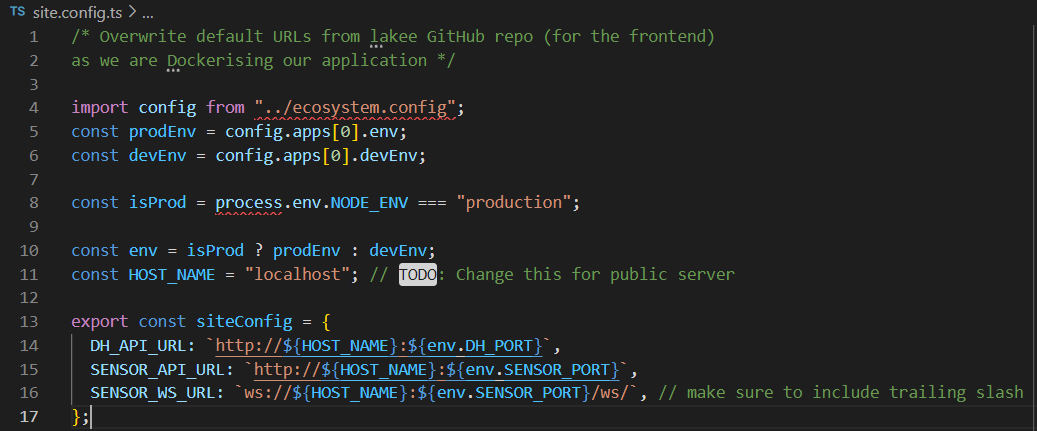
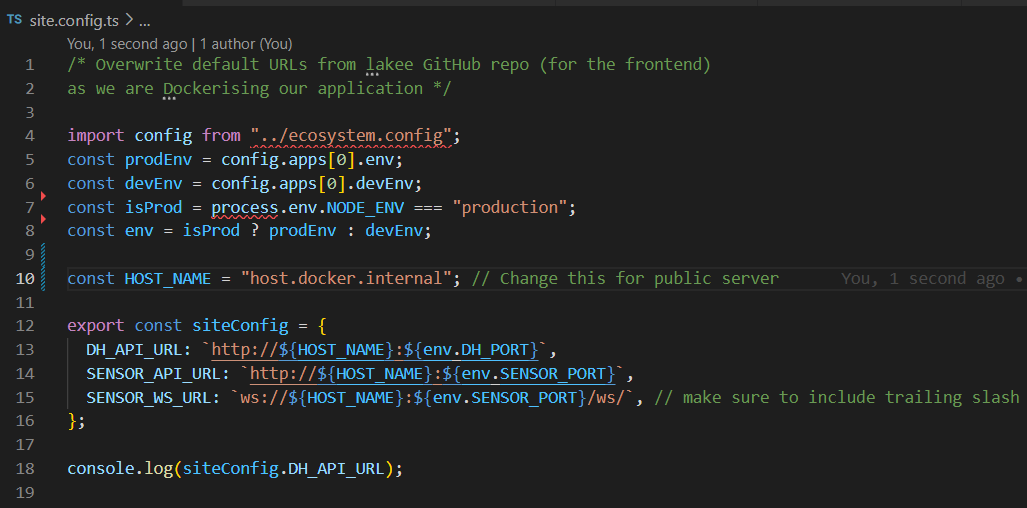
Docker setup for frontend

diff --git a/menu.tsx b/menu.tsx
@@ -1,0 +1,59 @@
+import Link from "next/link";
+
+import { Icon } from "@tremor/react";
+import { MoonIcon, SunIcon } from "lucide-react";
+import { useTheme } from "next-themes";
+import { Button } from "ui";
+
+const components: { title: string; href: string }[] = [
+  {
+    title: "Home",
+    href: "/",
+  },
+  {
+    title: "Sensors",
+    href: "/sensors",
+  },
+  {
+    title: "Digital Hospital",
+    href: "/digital-hospital",
+  },
+  {
+    title: "Documentation",
+    href: "http://localhost:8888",
+  },
+];
+
+export function Menu() {
+  const { theme, setTheme } = useTheme();
+
+  return (
+    <div className="flex w-full flex-row space-x-2 py-4">
+      {components.map((component) => (
+        <Button variant="ghost" asChild key={component.title}>
+          <Link href={component.href} passHref>
+            <div className="text-sm font-medium leading-none">
+              {component.title}
+            </div>
+          </Link>
+        </Button>
+      ))}
+      <Button asChild variant="ghost" className="ml-auto">
+        <Icon
+          // variant="outline"
+          icon={theme === "dark" ? MoonIcon : SunIcon}
+          className="ml-auto bg-gray-100 text-black dark:bg-gray-900 dark:text-white
+          hover:bg-gray-200 dark:hover:bg-gray-800
+          "
+          onClick={() => {
+            setTheme(theme === "dark" ? "light" : "dark");
+          }}
+        >
+          Toggle Theme
+        </Icon>
+      </Button>
+    </div>
+  );
+}
+
+export default Menu;

diff --git a/site.config.ts b/site.config.ts
@@ -4,11 +4,10 @@ as we are Dockerising our application */
 import config from "../ecosystem.config";
 const prodEnv = config.apps[0].env;
 const devEnv = config.apps[0].devEnv;
-
 const isProd = process.env.NODE_ENV === "production";
-
 const env = isProd ? prodEnv : devEnv;
-const HOST_NAME = "host.docker.internal"; // TODO: Change this for public server
+
+const HOST_NAME = "host.docker.internal"; // Change this for public server
 
 export const siteConfig = {
   DH_API_URL: `http://${HOST_NAME}:${env.DH_PORT}`,
